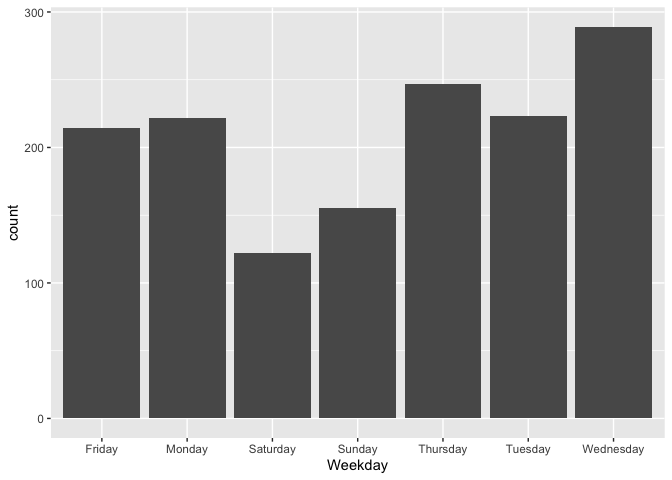
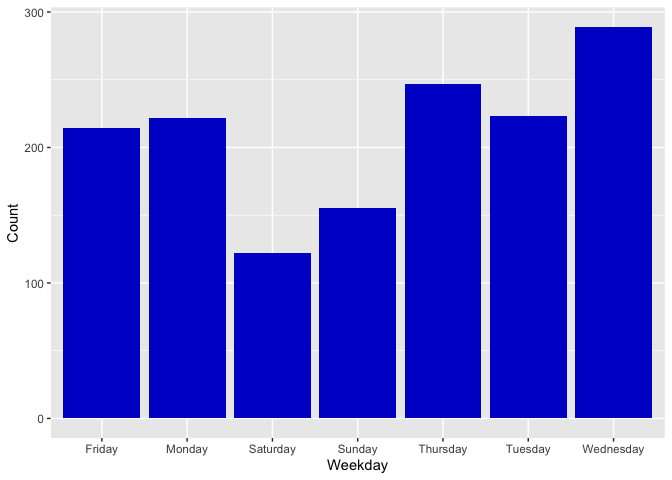
Additional plot and commentary for EDA

diff --git a/Project3.md b/Project3.md
@@ -13,6 +13,9 @@ Rachel Hencher and Yi Ren
     id="toc-split-data-into-train-and-test">Split data into train and
     test</a>
 - <a href="#summarization" id="toc-summarization">Summarization</a>
+  - <a href="#numeric-summaries" id="toc-numeric-summaries">Numeric
+    summaries</a>
+  - <a href="#pairs-plot" id="toc-pairs-plot">Pairs plot</a>
   - <a href="#barplot-for-weekday" id="toc-barplot-for-weekday">Barplot for
     weekday</a>
   - <a href="#boxplot-of-weekday-vs-shares"
@@ -20,7 +23,9 @@ Rachel Hencher and Yi Ren
   - <a href="#scatterplot-of-title-length--polarity-vs-shares"
     id="toc-scatterplot-of-title-length--polarity-vs-shares">Scatterplot of
     title length &amp; polarity vs shares</a>
-  - <a href="#pairs-plot" id="toc-pairs-plot">Pairs plot</a>
+  - <a href="#scatterplots-of-negative--positive-word-rate-vs-shares"
+    id="toc-scatterplots-of-negative--positive-word-rate-vs-shares">Scatterplots
+    of negative &amp; positive word rate vs shares</a>
 - <a href="#modeling" id="toc-modeling">Modeling</a>
   - <a href="#set-up-cross-validation" id="toc-set-up-cross-validation">Set
     up cross validation</a>
@@ -47,7 +52,8 @@ Rachel Hencher and Yi Ren
 This report analyzes data on almost 40,000 articles published by
 Mashable throughout the years 2013 and 2014. Although the original data
 set includes information on 61 different features about the articles,
-this report focuses on the following 9 variables:
+this report excludes and condenses some of those and focuses on the
+following 9 variables:
 
 | Name                 | Definition                                                                       |
 |:---------------------|:---------------------------------------------------------------------------------|
@@ -65,8 +71,8 @@ this report focuses on the following 9 variables:
 The purpose of this report is to look for patterns and to make
 predictions regarding the number of shares for articles in one of six
 different channels. Following some exploratory data analysis, four
-different models are used to model the response: a forward stepwise
-regression model, a LASSO regression model, a random forest model, and a
+different models are used to model the response: a LASSO regression
+model, a forward stepwise regression model, a random forest model, and a
 boosted tree model.
 
 # Load packages
@@ -78,6 +84,7 @@ library(knitr)
 library(caret)
 library(ggplot2)
 library(GGally)
+library(ggpubr)
 ```
 
 # Data
@@ -136,15 +143,10 @@ testing <- news_data[-intrain,]
 
 # Summarization
 
-## Barplot for weekday
+## Numeric summaries
 
-``` r
-ggplot(training, aes(x = Weekday)) +
-  geom_bar(position="dodge")
-```
-
-![](Project3_files/figure-gfm/barplot-1.png)<!-- --> \## Numeric
-summaries
+The following table displays five-number summaries for each of the
+numeric variables explored.
 
 ``` r
 stat <- training %>% 
@@ -172,11 +174,47 @@ kable(stat, caption = "Summary Stats for All Variables", digits = 2)
 
 Summary Stats for All Variables
 
+## Pairs plot
+
+The following graphic displays the correlation between each of the
+variables explored. There are several things to look out for… The
+correlation between `Shares`, our response, and each of the other
+variables, our predictors. A higher value close to -1 or 1 indicates the
+two variables are highly correlated. A value close to 0 indicates little
+to no correlation. Additionally, one should consider correlation between
+two predictor variables as well. A high correlation between two
+predictor variables is an indication of collinearity, which should be
+taken into account when creating models later.
+
+``` r
+training_sub <- training %>% 
+  select(-Weekday)
+
+ggpairs(training_sub)
+```
+
+![](Project3_files/figure-gfm/ggpairs-1.png)<!-- -->
+
+## Barplot for weekday
+
+The following barplot displays counts for how many articles in a
+particular channel were published each day of the week over the time
+frame covered by the data set.
+
+``` r
+ggplot(training, aes(x = Weekday)) +
+  geom_bar(fill = "medium blue", position = "dodge") +
+  labs(y = "Count")
+```
+
+![](Project3_files/figure-gfm/barplot-1.png)<!-- -->
+
 ## Boxplot of weekday vs shares
 
 ``` r
 ggplot(training, aes(x = Weekday, y = Shares)) +
   geom_boxplot(color = "royal blue") +
+  coord_flip() +
   scale_y_continuous(trans = "log10")
 ```
 
@@ -191,16 +229,25 @@ ggplot(training, aes(x = Number_Title_Words, y = Shares)) +
 
 ![](Project3_files/figure-gfm/scatterplot-1.png)<!-- -->
 
-## Pairs plot
+## Scatterplots of negative & positive word rate vs shares
 
 ``` r
-training_sub <- training %>% 
-  select(-Weekday)
-
-ggpairs(training_sub)
+ggplot(training, aes(x = Positive_Word_Rate, y = Shares)) + 
+  geom_point(size = 0.7, color = "royal blue") + 
+  stat_cor(method = "pearson", label.x = 0, label.y = 100000, color = "royal blue") +
+  xlim(0, 0.125) + ylim(0, 250000)
 ```
 
-![](Project3_files/figure-gfm/ggpairs-1.png)<!-- -->
+![](Project3_files/figure-gfm/scatterplot2-1.png)<!-- -->
+
+``` r
+ggplot(training, aes(x = Negative_Word_Rate, y = Shares)) + 
+  geom_point(size = 0.7, color = "dark blue") + 
+  stat_cor(method = "pearson", label.x = 0, label.y = 100000, color = "dark blue") +
+  xlim(0, 0.125) + ylim(0, 250000)
+```
+
+![](Project3_files/figure-gfm/scatterplot2-2.png)<!-- -->
 
 # Modeling
 
